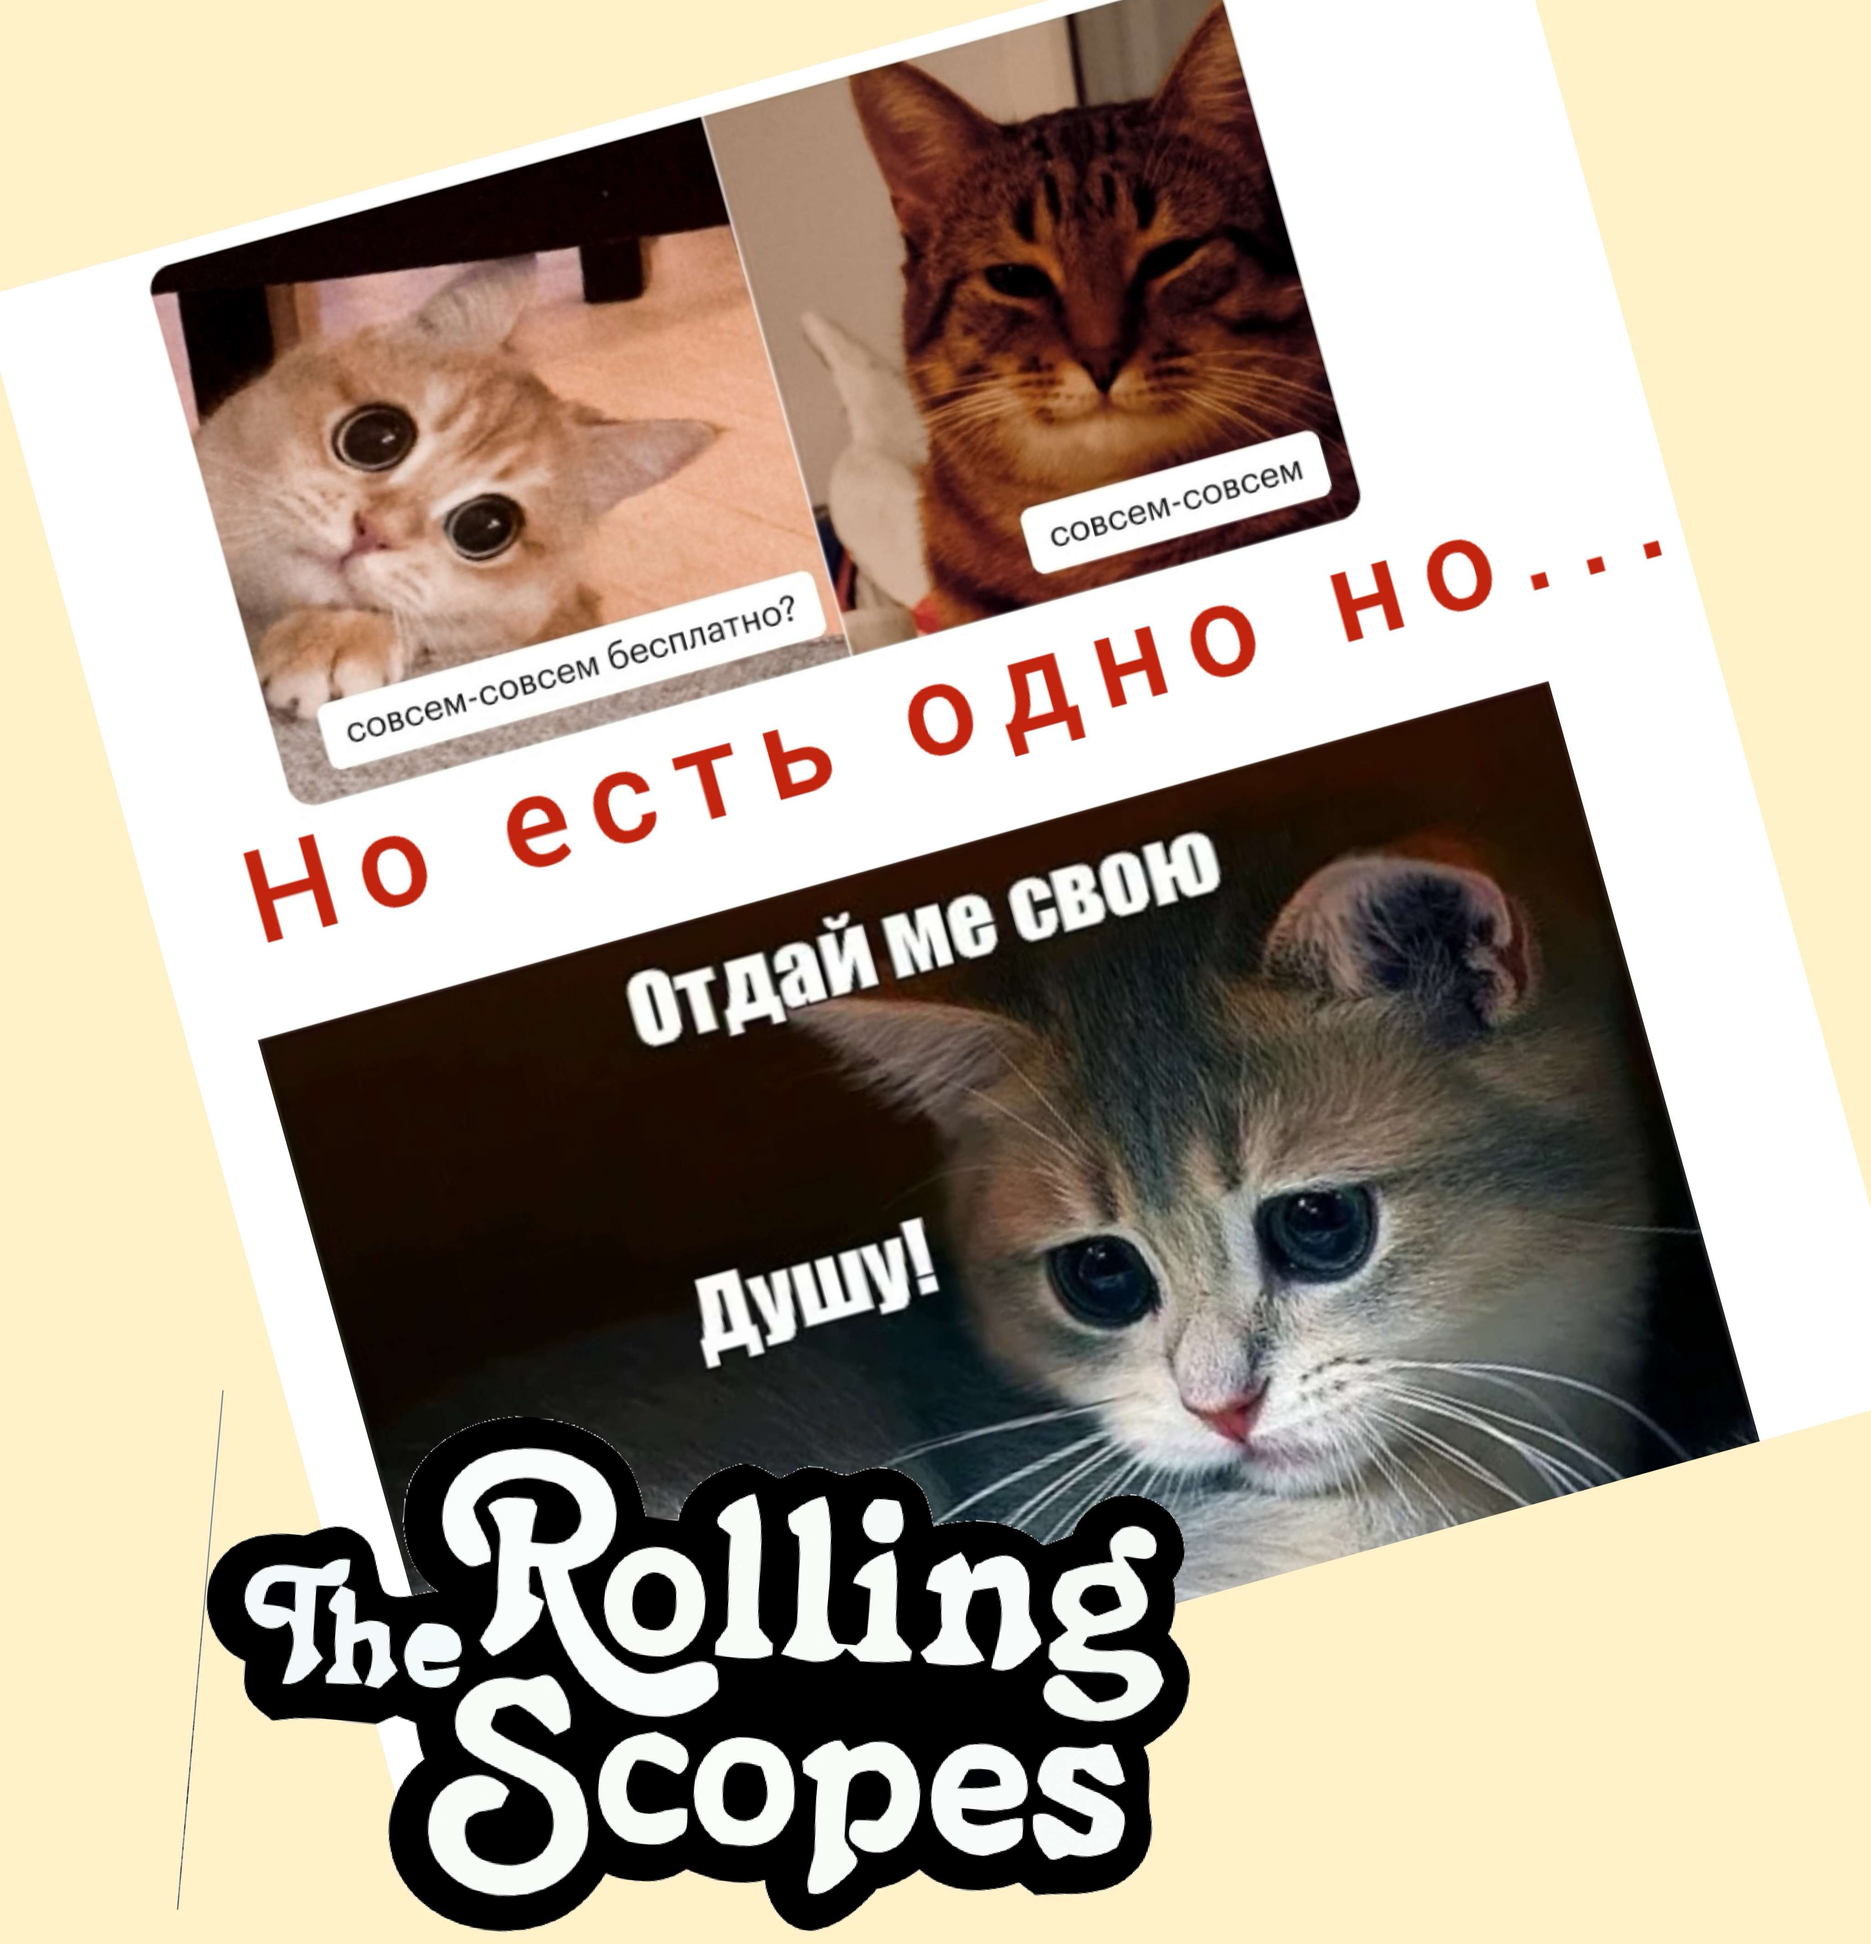
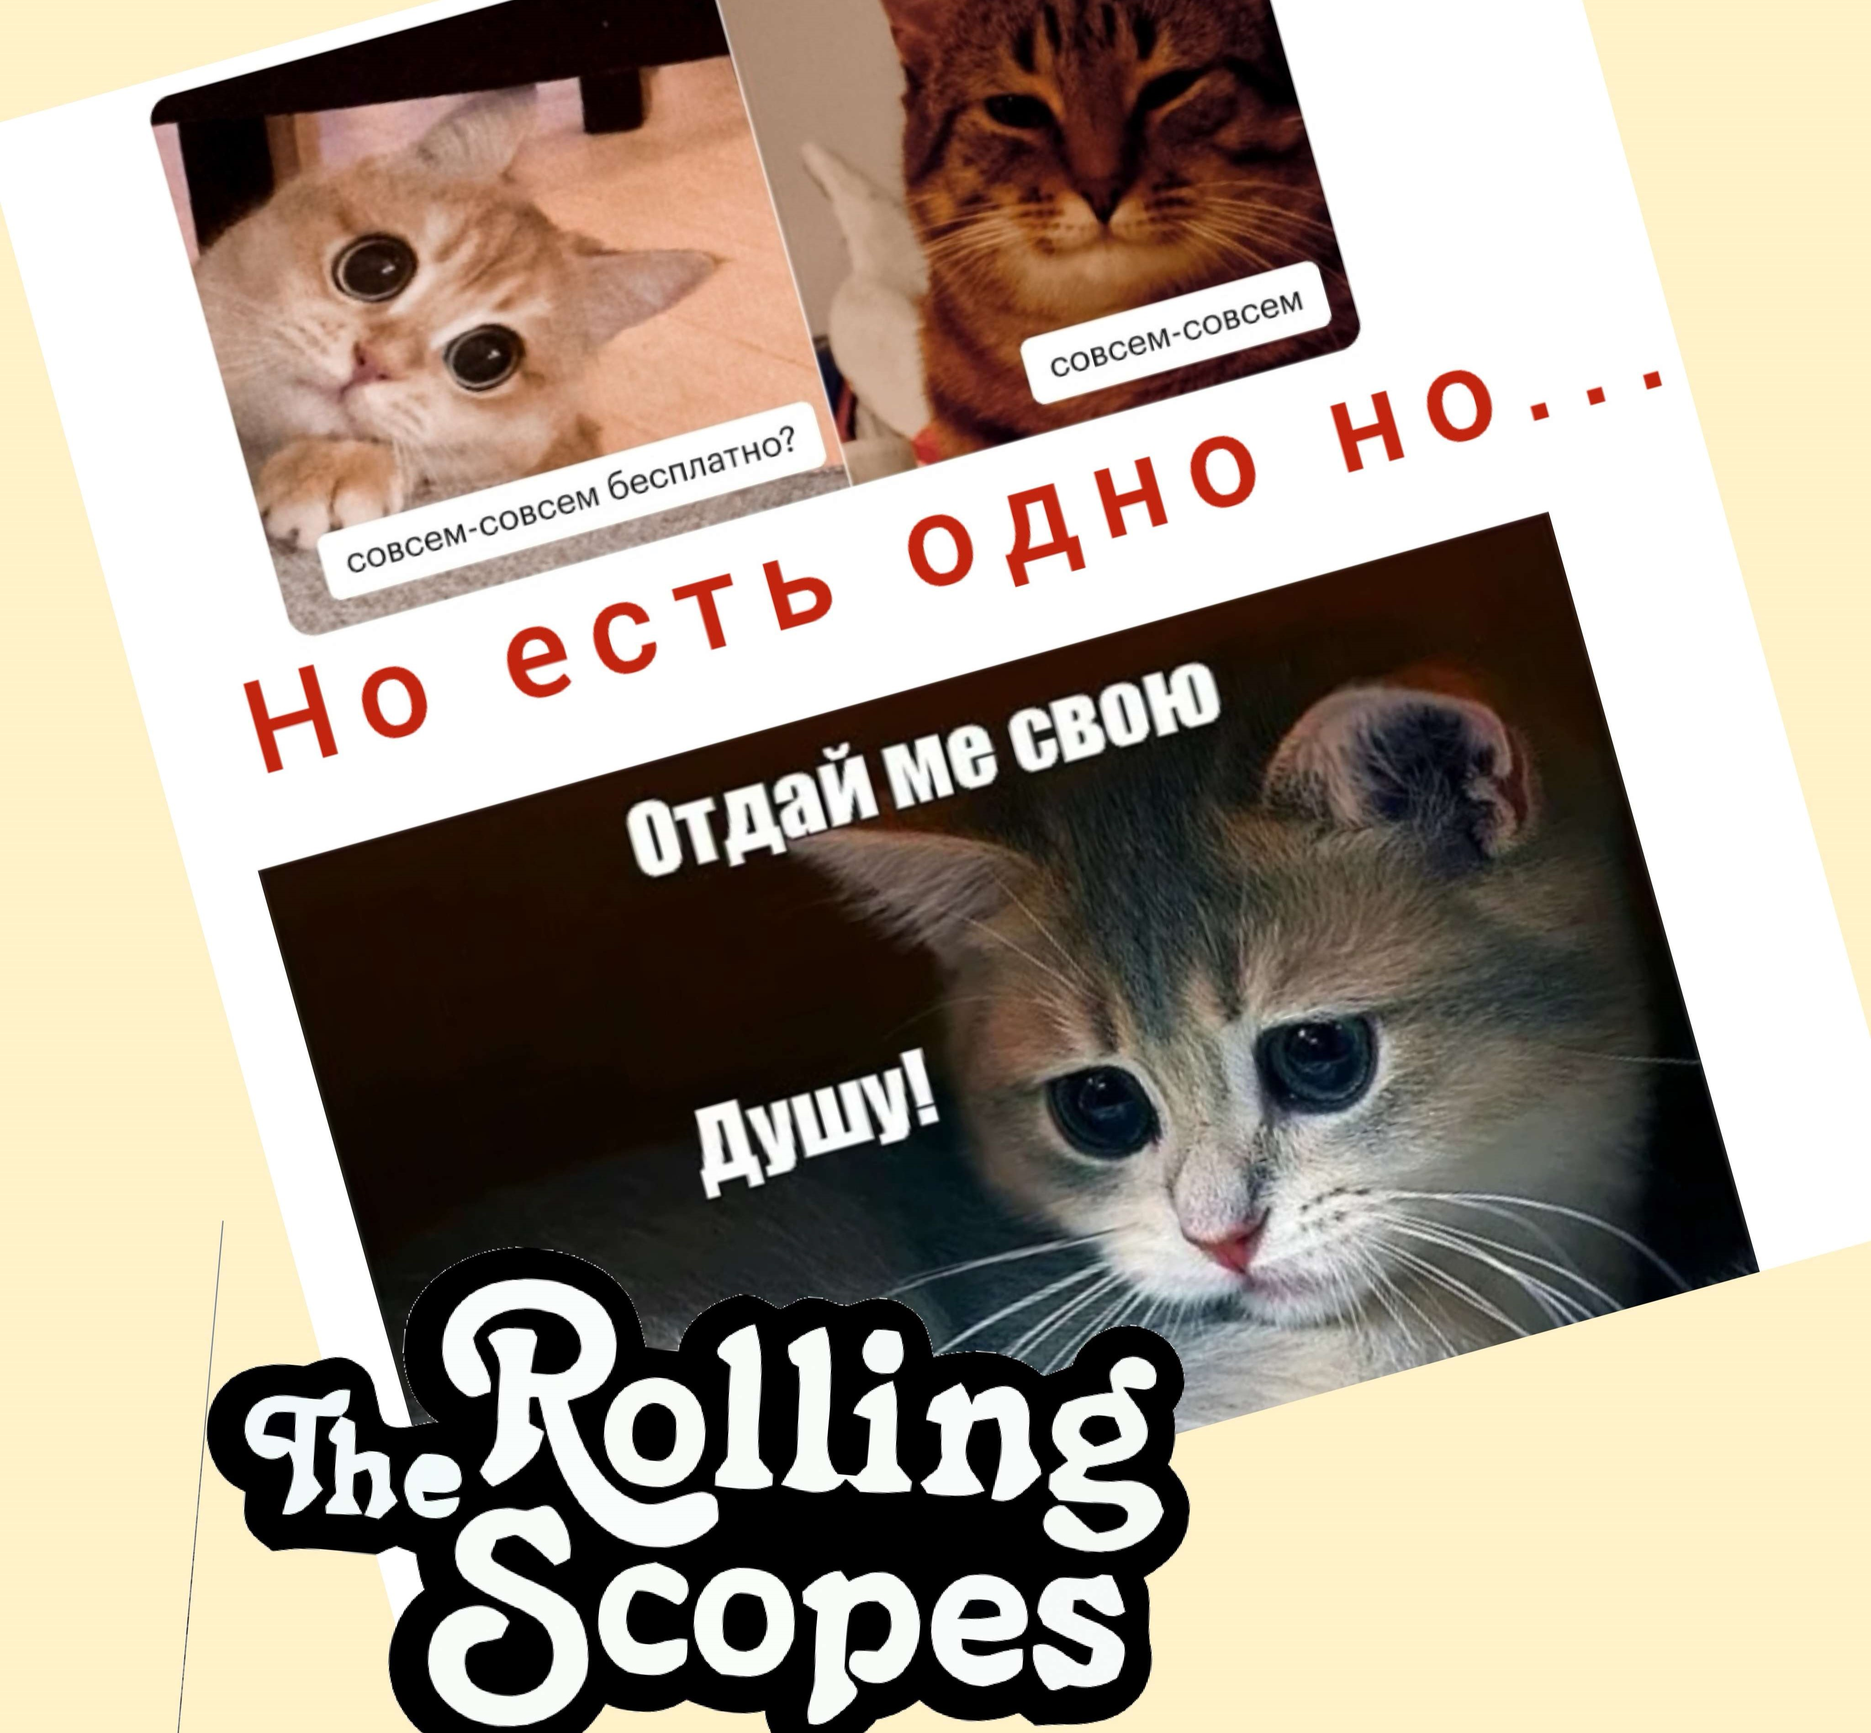
fix: change html & css (Mon, Sep 18, 2023, 1:12:30 AM)

diff --git a/cssMemeSlider/style.css b/cssMemeSlider/style.css
@@ -8,10 +8,11 @@ html {
   margin: 0 auto;
 }
 body {
-  max-width: 100vw;
+  width: 90vw;
   height: 100vh;
   margin: 0 auto;
   display: flex;
+  flex-flow: column nowrap;
   align-items: center;
   justify-content: center;
   color: #636060;
@@ -25,79 +26,133 @@ body {
 .css-memSlider {
   width: 100vw;
   height: 100vh;
-  margin: 0 auto;
   display: flex;
   align-items: center;
   flex-direction: column;
-  justify-content: space-between;
+  flex-flow: column nowrap;
+  overflow: hidden;
 }
 .css-memSlider-title {
   height: 10vh;
-  margin: 1rem auto;
+  margin: 0.5rem auto;
   color: rgb(112, 129, 239);
 }
-.css-memSlider-content {
-  width: 25rem;
-  height: 80vh;
-  display: flex;
-  align-items: center;
-  flex-direction: column;
-  border-top: 0.1rem solid rgb(112, 129, 239);
+.css-memSlider__input {
+  display: none;
 }
 .css-memSlider__slider {
   width: 65vw;
-  height: 70vh;
   display: flex;
-  align-items: center;
+  flex-direction: column;
   text-align: center;
   overflow: hidden;
 }
-.css-memSlider__slide {
+.css-memSlider__images {
+  width: 400%;
+  height: 85%;
   display: flex;
-  align-items: center;
-  flex-direction: column;
-  scroll-snap-align: start;
-  flex-shrink: 0;
-  width: 65vw;
-  height: 60vh;
-  margin-right: 3.125rem;
-  border-radius: 0.625rem;
-  transform-origin: center center;
-  transform: scale(1);
-  transition: transform 0.5s;
-  display: flex;
-  justify-content: center;
-  align-items: center;
-  font-size: 6.25rem;
-}
-.content-text {
-  margin: 0 auto;
-  font-size: 1.5rem;
-  text-align: center;
-  color: antiquewhite;
-}
-.content-text a {
-  color: white;
 }
 .content-img {
-  width: 85%;
-  height: 100%;
+  width: 25%;
+  margin: 0 auto;
+  transition: all 0.5s ease-in-out;
+  text-align: center;
+  border-radius: 1.5%;
   object-fit: initial;
 }
-.css-memSlider__dots {
+
+#slide1:checked ~ .css-memSlider__text-dots .dot1 span,
+#slide2:checked ~ .css-memSlider__text-dots .dot2 span,
+#slide3:checked ~ .css-memSlider__text-dots .dot3 span,
+#slide4:checked ~ .css-memSlider__text-dots .dot4 span,
+#slide5:checked ~ .css-memSlider__text-dots .dot5 span{
+  background: #25282a;
+  border: 1px solid rgb(112, 129, 239);
+}
+
+#slide1:checked ~ .css-memSlider__images .first-img {
+  margin-left: 0;
+}
+#slide2:checked ~ .css-memSlider__images .first-img {
+  margin-left: -35%;
+}
+#slide3:checked ~ .css-memSlider__images .first-img {
+  margin-left: -117%;
+}
+#slide4:checked ~ .css-memSlider__images .first-img {
+  margin-left: -525%;
+}
+
+.css-memSlider__text-dots {
+  display: flex;
+  align-items: center;
+  flex-flow: row nowrap;
+  justify-content: space-between;
   height: 10vh;
 }
-.css-memSlider__dot {
-  width: 1rem;
-  height: 1rem;
-  margin: 0 0 0.5rem 0;
-  border-radius: 50%;
-  display: inline-flex;
-  background: antiquewhite;
-  text-decoration: none;
-  align-items: center;
-  justify-content: center;
+.css-memSlider__text {
+  width: 100%;
+  overflow: hidden;
 }
-.css-memSlider__dot:hover {
-  background: rgb(84, 105, 244);
+.css-memSlider__textAll {
+  width: 400%;
+  display: flex;
+  align-items: center;
+  justify-content: start;
+  flex-flow: row nowrap;
+  text-align: left;
+  font-size: 1.5rem;
+  color: antiquewhite;
+}
+.content-text {
+  width: 100%;
+  margin: 0;
+  transition: 1s ease;
+}
+.css-memSlider__dot span {
+  width: 100%;
+  transition: 1.7s ease;
+}
+.css-memSlider__dots {
+  display: flex;
+  width: 40%;
+  justify-content: space-between;
+  gap: 0.5rem;
+}
+.css-memSlider__dot {
+  width: 1.5rem;
+  height: 1.5rem;
+  background: antiquewhite;
+  border-radius: 50%;
+  border: 0.15rem solid rgb(56, 81, 242);
+  transition: all 0.5s ease-in-out;
+  cursor: pointer;
+}
+.css-memSlider__dots .css-memSlider__dot span {
+  height: 100%;
+  width: 100%;
+  border-radius: 50%;
+  background: antiquewhite;
+  box-sizing: border-box;
+  margin: 0 auto;
+}
+.css-memSlider__dots .css-memSlider__dot:hover {
+  background: rgb(112, 129, 239);
+}
+.css-memSlider__dots .css-memSlider__dot:active {
+  background: antiquewhite;
+  border: 1px solid rgb(112, 129, 239);
+}
+
+#slide1:checked ~ .css-memSlider__text-dots .first-text {
+  margin-left: 0;
+}
+#slide2:checked ~ .css-memSlider__text-dots .first-text {
+  margin-left: -33%;
+}
+#slide3:checked ~ .css-memSlider__text-dots .first-text {
+  margin-left: -100%;
+}
+#slide4:checked ~ .css-memSlider__text-dots .first-text {
+  margin-left: -300%;
 }

diff --git a/cssMemeSlider/index.html b/cssMemeSlider/index.html
@@ -15,33 +15,40 @@
   <section class="css-memSlider">
     <h1 class="css-memSlider-title">CSS Meme Slider</h1>
     <div class="css-memSlider__slider">
-      <div id="slide-1" class="css-memSlider__slide">
-        <img class="content-img" src="./assets/1.jpg" alt="mem1">
-        <p class="content-text">Мысли про некоторые тесты</p>
-      </div>
-      <div id="slide-2" class="css-memSlider__slide">
+      <input type="radio" class="css-memSlider__input" name="slide" id="slide1" checked>
+      <input type="radio" class="css-memSlider__input" name="slide" id="slide2">
+      <input type="radio" class="css-memSlider__input" name="slide" id="slide3">
+      <input type="radio" class="css-memSlider__input" name="slide" id="slide4">
+      <div class="css-memSlider__images">
+        <img class="content-img first-img" src="./assets/1.jpg" alt="mem1">
         <img class="content-img" src="./assets/2.jpg" alt="mem2">
-        <p class="content-text">Ты что ТЗ не читал...?</p>
-      </div>
-      <div id="slide-3" class="css-memSlider__slide">
         <img class="content-img" src="./assets/3.jpg" alt="mem3">
-        <p class="content-text">Когда друзья спрашивают "Как продвигается учёба?"</p>
-      </div>
-      <div id="slide-4" class="css-memSlider__slide">
         <img class="content-img" src="./assets/4.jpg" alt="mem4">
-        <p class="content-text">Когда не успел закончить проект до дедлайна</p>
       </div>
-      <div id="slide-5" class="css-memSlider__slide">
-        <img class="content-img" src="./assets/5.jpg" alt="mem5">
-        <p class="content-text">Бесплатные курсы взамен на душу</p>
+      <div class="css-memSlider__text-dots">
+        <div class="css-memSlider__text">
+          <div class="css-memSlider__textAll">
+            <p class="content-text first-text">Мысли про некоторые тесты RSSchool</p>
+            <p class="content-text">Ты что ТЗ не читал ... ?</p>
+            <p class="content-text">Когда спрашивают "Как продвигается учёба?"</p>
+            <p class="content-text">Когда не успел закончить проект до дедлайна</p>
+          </div>
+        </div>
+        <div class="css-memSlider__dots">
+          <label class="css-memSlider__dot dot1" for="slide1">
+            <span class="css-memSlider__dot-span"></span>
+          </label>
+          <label class="css-memSlider__dot dot2" for="slide2">
+            <span class="css-memSlider__dot-span"></span>
+          </label>
+          <label class="css-memSlider__dot dot3" for="slide3">
+            <span class="css-memSlider__dot-span"></span>
+          </label>
+          <label class="css-memSlider__dot dot4" for="slide4">
+            <span class="css-memSlider__dot-span"></span>
+          </label>
+        </div>
       </div>
-    </div>
-    <div class="css-memSlider__dots">
-      <a href="#slide-1" class="css-memSlider__dot"></a>
-      <a href="#slide-2" class="css-memSlider__dot"></a>
-      <a href="#slide-3" class="css-memSlider__dot"></a>
-      <a href="#slide-4" class="css-memSlider__dot"></a>
-      <a href="#slide-5" class="css-memSlider__dot"></a>
     </div>
   </section>
 </body>
